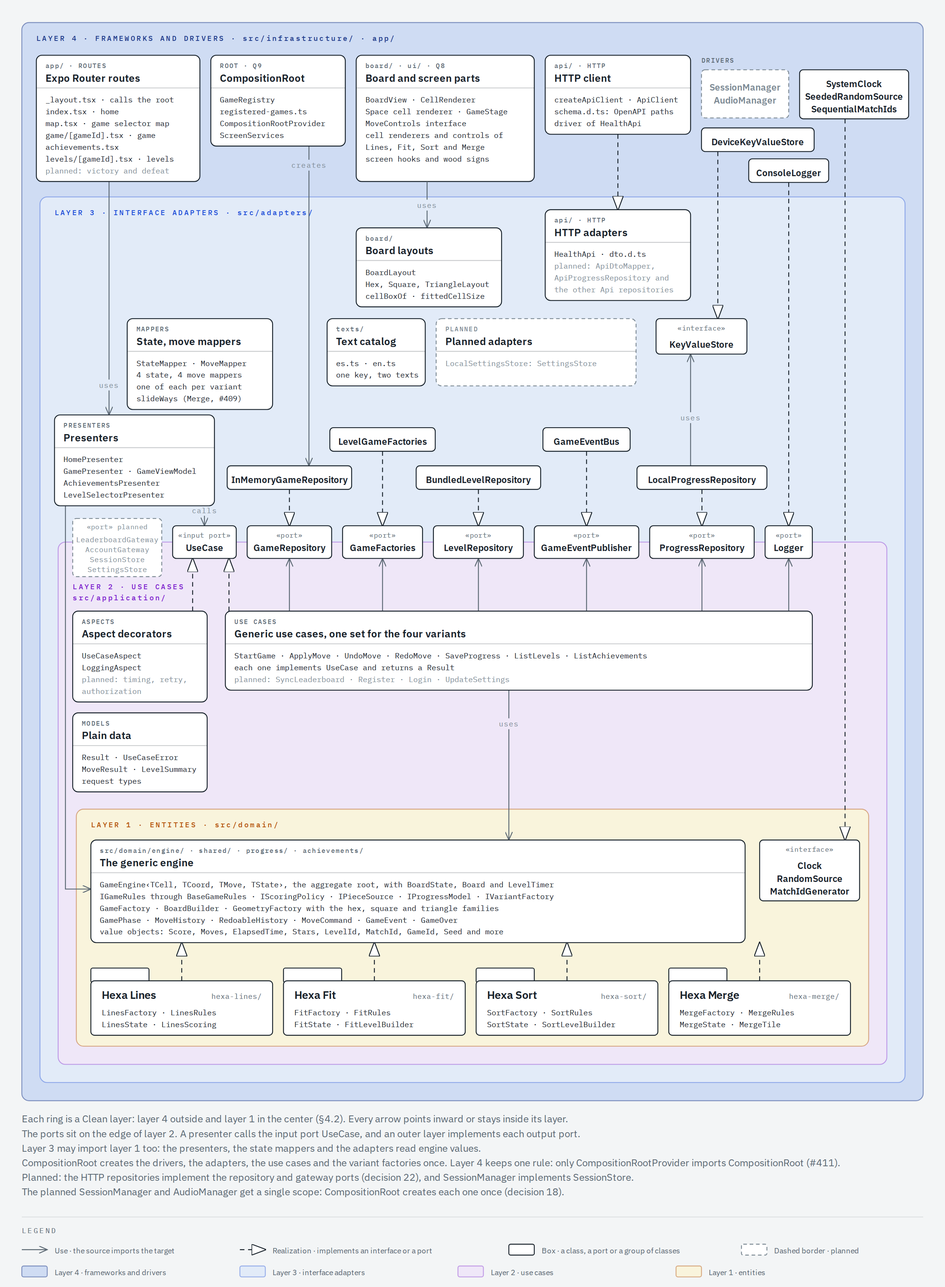
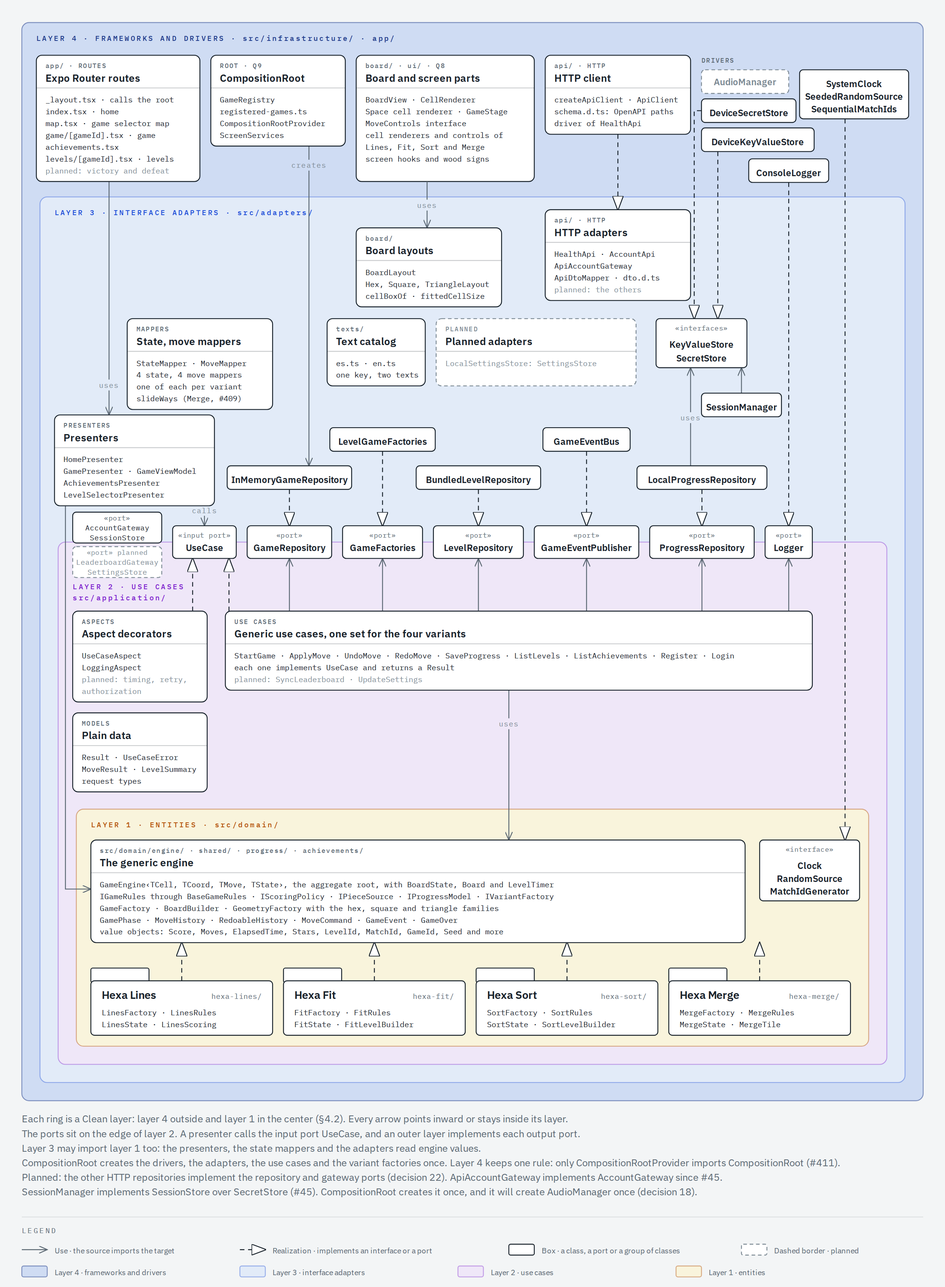
docs(architecture): record the account flow, decision 65 and the views (#45, part 5/5)

diff --git a/docs/architecture/layers/views/layers-1-clean.html b/docs/architecture/layers/views/layers-1-clean.html
@@ -82,11 +82,12 @@
           board components of layer 4 use the board layouts of layer 3. The HTTP adapters of layer 3
           hold HealthApi and the DTO types, and ApiClient of layer 4 implements HealthApi (decision
           22). In layer 4, ConsoleLogger implements Logger, DeviceKeyValueStore implements
-          KeyValueStore, and SystemClock, SeededRandomSource and SequentialMatchIds implement the
-          engine interfaces Clock, RandomSource and MatchIdGenerator. The routes use the presenters,
-          and CompositionRoot creates the adapters. The use cases and the presenters use the generic
-          engine, and the four variants implement its contracts. Every arrow points inward, toward
-          layer 1, or stays inside one layer. A dashed border marks a planned part.
+          KeyValueStore, DeviceSecretStore implements SecretStore, and SystemClock,
+          SeededRandomSource and SequentialMatchIds implement the engine interfaces Clock,
+          RandomSource and MatchIdGenerator. The routes use the presenters, and CompositionRoot
+          creates the adapters. The use cases and the presenters use the generic engine, and the
+          four variants implement its contracts. Every arrow points inward, toward layer 1, or stays
+          inside one layer. A dashed border marks a planned part.
         </desc>
         <defs>
           <marker
@@ -239,6 +240,23 @@
           stroke-dasharray="5,4"
           marker-end="url(#layers-triangle)"
         />
+        <!-- DeviceSecretStore implements SecretStore: realization, from layer 4 into layer 3 (#45) -->
+        <path
+          d="M772 121 L764 121 L764 350"
+          fill="none"
+          stroke="#17212a"
+          stroke-width="1"
+          stroke-dasharray="5,4"
+          marker-end="url(#layers-triangle)"
+        />
+        <!-- SessionManager keeps the session through SecretStore: use, inside layer 3 (#45) -->
+        <path
+          d="M816 432 L816 404"
+          fill="none"
+          stroke="#5b6873"
+          stroke-width="1"
+          marker-end="url(#layers-open)"
+        />
         <!-- ApiClient implements HealthApi and the other transport interfaces of layer 3: realization, from layer 4 into layer 3 (decision 22) -->
         <path
           d="M680 147 L680 230"
@@ -321,7 +339,7 @@
         />
         <!-- LocalProgressRepository keeps its data through KeyValueStore: use, inside layer 3 -->
         <path
-          d="M760 512 L760 389"
+          d="M760 512 L760 404"
           fill="none"
           stroke="#5b6873"
           stroke-width="1"
@@ -916,7 +934,7 @@
           x="772"
           y="76"
           width="96"
-          height="53"
+          height="26"
           rx="4"
           fill="#ffffff"
           stroke="#7d8a94"
@@ -925,18 +943,7 @@
         />
         <text
           x="820.0"
-          y="99"
-          fill="#7d8a94"
-          font-size="10"
-          font-weight="600"
-          font-family="'IBM Plex Sans', sans-serif"
-          text-anchor="middle"
-        >
-          SessionManager
-        </text>
-        <text
-          x="820.0"
-          y="113"
+          y="93"
           fill="#7d8a94"
           font-size="10"
           font-weight="600"
@@ -944,6 +951,28 @@
           text-anchor="middle"
         >
           AudioManager
+        </text>
+        <!-- Component: driver of SecretStore (#45) -->
+        <rect
+          x="772"
+          y="108"
+          width="104"
+          height="26"
+          rx="4"
+          fill="#ffffff"
+          stroke="#17212a"
+          stroke-width="1"
+        />
+        <text
+          x="824.0"
+          y="127"
+          fill="#17212a"
+          font-size="10"
+          font-weight="600"
+          font-family="'IBM Plex Sans', sans-serif"
+          text-anchor="middle"
+        >
+          DeviceSecretStore
         </text>
         <!-- Component: drivers of the engine interfaces -->
         <rect
@@ -1194,25 +1223,25 @@
           font-size="8.5"
           font-family="'IBM Plex Mono', monospace"
         >
-          HealthApi · dto.d.ts
+          HealthApi · AccountApi
         </text>
         <text
           x="610"
           y="295"
-          fill="#7d8a94"
+          fill="#17212a"
           font-size="8.5"
           font-family="'IBM Plex Mono', monospace"
         >
-          planned: ApiDtoMapper,
+          ApiAccountGateway
         </text>
         <text
           x="610"
           y="308"
-          fill="#7d8a94"
+          fill="#17212a"
           font-size="8.5"
           font-family="'IBM Plex Mono', monospace"
         >
-          ApiProgressRepository and
+          ApiDtoMapper · dto.d.ts
         </text>
         <text
           x="610"
@@ -1221,7 +1250,7 @@
           font-size="8.5"
           font-family="'IBM Plex Mono', monospace"
         >
-          the other Api repositories
+          planned: the others
         </text>
         <!-- Component: planned adapters -->
         <rect
@@ -1266,12 +1295,12 @@
         >
           LocalSettingsStore: SettingsStore
         </text>
-        <!-- Interface: KeyValueStore, the driver interface of layer 3 -->
+        <!-- Interfaces: KeyValueStore and SecretStore (#45), the driver interfaces of layer 3 -->
         <rect
           x="722"
           y="350"
           width="100"
-          height="39"
+          height="54"
           rx="4"
           fill="#ffffff"
           stroke="#17212a"
@@ -1286,7 +1315,7 @@
           text-anchor="middle"
           letter-spacing="0.08em"
         >
-          «interface»
+          «interfaces»
         </text>
         <text
           x="772.0"
@@ -1298,6 +1327,39 @@
           text-anchor="middle"
         >
           KeyValueStore
+        </text>
+        <text
+          x="772.0"
+          y="397"
+          fill="#17212a"
+          font-size="10"
+          font-weight="600"
+          font-family="'IBM Plex Sans', sans-serif"
+          text-anchor="middle"
+        >
+          SecretStore
+        </text>
+        <!-- Component: SessionManager, the adapter of the SessionStore port (#45, decision 18) -->
+        <rect
+          x="772"
+          y="432"
+          width="88"
+          height="26"
+          rx="4"
+          fill="#ffffff"
+          stroke="#17212a"
+          stroke-width="1"
+        />
+        <text
+          x="816.0"
+          y="451"
+          fill="#17212a"
+          font-size="10"
+          font-weight="600"
+          font-family="'IBM Plex Sans', sans-serif"
+          text-anchor="middle"
+        >
+          SessionManager
         </text>
         <!-- Component: presenters and view models -->
         <rect
@@ -1480,12 +1542,54 @@
           LocalProgressRepository
         </text>
         <!-- Ports on the edge of layer 2: layer 2 owns each one, and an outer layer implements each output port -->
+        <!-- Port: the output ports of the account (#45) -->
+        <rect
+          x="80"
+          y="563"
+          width="98"
+          height="34"
+          rx="4"
+          fill="#ffffff"
+          stroke="#17212a"
+          stroke-width="1"
+        />
+        <text
+          x="129.0"
+          y="572"
+          fill="#5b6873"
+          font-size="7.5"
+          font-family="'IBM Plex Mono', monospace"
+          text-anchor="middle"
+          letter-spacing="0.08em"
+        >
+          «port»
+        </text>
+        <text
+          x="129.0"
+          y="583"
+          fill="#17212a"
+          font-size="8"
+          font-family="'IBM Plex Mono', monospace"
+          text-anchor="middle"
+        >
+          AccountGateway
+        </text>
+        <text
+          x="129.0"
+          y="594"
+          fill="#17212a"
+          font-size="8"
+          font-family="'IBM Plex Mono', monospace"
+          text-anchor="middle"
+        >
+          SessionStore
+        </text>
         <!-- Port: the planned output ports -->
         <rect
           x="80"
-          y="570"
+          y="601"
           width="98"
-          height="64"
+          height="34"
           rx="4"
           fill="#ffffff"
           stroke="#7d8a94"
@@ -1494,7 +1598,7 @@
         />
         <text
           x="129.0"
-          y="582"
+          y="610"
           fill="#7d8a94"
           font-size="7.5"
           font-family="'IBM Plex Mono', monospace"
@@ -1505,7 +1609,7 @@
         </text>
         <text
           x="129.0"
-          y="596"
+          y="621"
           fill="#7d8a94"
           font-size="8"
           font-family="'IBM Plex Mono', monospace"
@@ -1515,27 +1619,7 @@
         </text>
         <text
           x="129.0"
-          y="607"
-          fill="#7d8a94"
-          font-size="8"
-          font-family="'IBM Plex Mono', monospace"
-          text-anchor="middle"
-        >
-          AccountGateway
-        </text>
-        <text
-          x="129.0"
-          y="618"
-          fill="#7d8a94"
-          font-size="8"
-          font-family="'IBM Plex Mono', monospace"
-          text-anchor="middle"
-        >
-          SessionStore
-        </text>
-        <text
-          x="129.0"
-          y="629"
+          y="632"
           fill="#7d8a94"
           font-size="8"
           font-family="'IBM Plex Mono', monospace"
@@ -1885,6 +1969,7 @@
           font-family="'IBM Plex Mono', monospace"
         >
           StartGame · ApplyMove · UndoMove · RedoMove · SaveProgress · ListLevels · ListAchievements
+          · Register · Login
         </text>
         <text
           x="258"
@@ -1902,7 +1987,7 @@
           font-size="8.5"
           font-family="'IBM Plex Mono', monospace"
         >
-          planned: SyncLeaderboard · Register · Login · UpdateSettings
+          planned: SyncLeaderboard · UpdateSettings
         </text>
         <!-- Component: request and response models -->
         <rect
@@ -2385,8 +2470,8 @@
           font-size="11"
           font-family="'IBM Plex Sans', sans-serif"
         >
-          Planned: the HTTP repositories implement the repository and gateway ports (decision 22),
-          and SessionManager implements SessionStore.
+          Planned: the other HTTP repositories implement the repository and gateway ports (decision
+          22). ApiAccountGateway implements AccountGateway since #45.
         </text>
         <text
           x="24"
@@ -2395,8 +2480,8 @@
           font-size="11"
           font-family="'IBM Plex Sans', sans-serif"
         >
-          The planned SessionManager and AudioManager get a single scope: CompositionRoot creates
-          each one once (decision 18).
+          SessionManager implements SessionStore over SecretStore (#45). CompositionRoot creates it
+          once, and it will create AudioManager once (decision 18).
         </text>
         <!-- Legend -->
         <line

diff --git a/src/infrastructure/README.md b/src/infrastructure/README.md
@@ -4,5 +4,9 @@ Frameworks and drivers (storage, HTTP client, system clock, seeded random source
 
 `device-key-value-store.ts` holds `DeviceKeyValueStore`, the local storage driver (S3-01 in #151, issue #155). It implements `KeyValueStore` of `src/adapters/` with `@react-native-async-storage/async-storage`, so a value survives a restart of the app. `CompositionRootProvider` builds it and gives it to the root, which builds `LocalProgressRepository` over it for the achievements screen (#188). `jest.setup.js` gives every test of the `app` project of Jest the official mock of the package.
 
+`device-secret-store.ts` holds `DeviceSecretStore`, the secure storage driver (#45). It implements `SecretStore` of `src/adapters/` with `expo-secure-store`, which keeps each value in the Keychain of iOS or encrypted with the Keystore of Android. `CompositionRootProvider` builds it and gives it to the root, which builds `SessionManager` over it. The web build of the team has no native secure storage, so there each call rejects.
+
+`api/` holds the HTTP client of hexablock-api (decision 22 of the class diagram). `createApiClient(baseUrl)` of `client.ts` implements `HealthApi` and `AccountApi` with `openapi-fetch` and the generated `schema.d.ts`. A call of `AccountApi` that the backend does not answer with success rejects with an `ApiFailure` with the status, and a call with no answer with an `ApiFailure` with no status (#45). `apiBaseUrl()` of `api-url.ts` gives the address of the backend: the build variable `EXPO_PUBLIC_API_URL`, or `http://localhost:3000`. With the client and the secure storage of its drivers, the root builds `ApiAccountGateway`, `SessionManager`, `Register` and `Login`, and `accountPresenter()` gives the presenter of the account screen. A root with no client or no secure storage throws a `RangeError` from `accountPresenter()`. `ui/use-account.ts` holds `useAccount()`, which keeps that presenter for the life of the account screen of `app/account.tsx`.
+
 `board/` holds the React Native board components (S3-07 in #151, Q8, issue #165). `BoardView` draws the pairs of a coordinate and a cell view of `GameViewModel` on any figure, with the accessible name of the board. `BoardView` reads the screen layout of the figure, `BoardLayout` of `src/adapters/board/` (#393). `CellRenderer` is the interface of the cell renderer of a variant, and `SpaceCellRenderer` tells a free space from an occupied one (#170), and the cell renderer of each variant draws a free space with it. `FitCellRenderer` draws a space of Hexa Fit: a socket, or a stone in the color of its piece (#175). `MergeCellRenderer` draws a Merge tile as a stone in the tone of its value with its number (#177). `BoardView` hands a press on a space to the move controls of the game (#175).
 `ui/` holds the parts that the screens share (#169): the design tokens of the team prototype in `theme.ts`, the scene of sky and grass, the hex stone, the wood sign and the lip button, `useHomePresenter()`, which asks the root for `HomePresenter`, and `useSavedProgresses()`, which loads the saved progress of each registered game of a figure through the one `loadProgress()` of the root and gives the pairs to `useHomePresenter()`, so the map shows the record of each game that keeps a high score (#181). `GameStage` is the view of the game screen: it keeps `GamePresenter`, starts the game and shows the board, the score and the outcome. `useGameSession()` keeps the session of one game that the root builds: its presenter over the use cases of the game and its screen parts (#170, #411). `GamePresenter` calls `StartGame`, `ApplyMove`, `UndoMove` and `RedoMove` through `UseCase` (#178). `MoveControls` is the strategy of the move controls of one game: the stage gives it the board and `play()`, which calls `GamePresenter.onMove()`. Since #405 the controls send a plain intent, such as the text id of a piece and a rotation step as a number, and the `MoveMapper` of the game in `src/adapters/` builds the domain move. So no file of `ui/` imports a class of `src/domain/variants/` (rule `ui-no-variants` of `.dependency-cruiser.cjs`). Each variant has its own controls (#174 to #177): `FitControls` play Hexa Fit with the tray, the rotate button and a press on a space (#175). `MergeControls` play Hexa Merge with one slide button for each way of the figure, and each button sends the compass name of its way, and with the prompt that offers to continue when a merge makes the target tile (#177). Since #292 a swipe anywhere on the board plays the way nearest to its angle, and a swipe shorter than 24 px plays nothing. On the web the arrow keys and the keys Q, E, Z and C play the way nearest to the angle of the key: a repeated key plays once, and a key with Ctrl, Meta or Alt plays nothing. `slide-input.ts` holds `swipedWay()` and `useSlideKeys()`, and only this layer reads the platform. The swipe area holds the board only, so a press on a slide button or on the undo button stays a press, and the ring of buttons stays for the screen reader. `app/_layout.tsx` wraps the app in `GestureHandlerRootView`, which the gesture needs. `useAchievements()` keeps the `AchievementsPresenter` that the root builds and gives the view model of the achievements screen (#188). `useLevelSelector(gameId, figure)` keeps the `LevelSelectorPresenter` that the root builds over `listLevels()` and gives the view model of the level selector, and `useGameLevels(figure)` tells the map which games have levels (#173). `GameStage` takes the optional `LevelId` of the game route and starts the game at that level. `result-screens.tsx` holds `VictoryScreen` and `DefeatScreen` (#180, APP-FR-07): the game route opens one of them as a modal over the stage when the `ResultPresenter` of the session shows a result, and `useResult()` keeps its view model. The victory screen offers the next level or a new game, the defeat screen offers a retry, and both go back to the map. Since #179 they also show an undo button below the slide buttons, which takes back the last slide.

diff --git a/src/adapters/README.md b/src/adapters/README.md
@@ -16,7 +16,11 @@ It holds `InMemoryGameRepository`, the adapter of the `GameRepository` port, and
 
 `key-value-store.ts` holds `KeyValueStore`, the driver interface of the local storage (issue #155). It keeps one text value for each text key. The local repositories of this layer use it, and `DeviceKeyValueStore` in `src/infrastructure/` implements it, so no adapter imports a storage package. `InMemoryKeyValueStore` in `test/support/adapters/` is its test fake, for the integration tests of APP-NFR-15.
 
-`api/` holds the layer 3 side of the HTTP client (Q7, option A3, classes.md decision 22, #404). `dto.d.ts` holds the DTO schemas of the backend OpenAPI document. `pnpm api:generate` writes it, together with `src/infrastructure/api/schema.d.ts`, which holds the paths and imports these DTO types, and `pnpm api:check` compares both files. Do not edit it by hand (rule R-api-contract). `health-api.ts` holds `HealthApi`, the transport interface of the health resource: one interface per resource of the backend, whose methods take and give DTO types and never a type of the HTTP library. It is not a port, because layer 2 never sees it. `ApiClient` of `src/infrastructure/api/client.ts` implements it, so no adapter imports `openapi-fetch`. The planned HTTP repositories `ApiProgressRepository`, `ApiLevelRepository`, `ApiLeaderboardGateway` and `ApiAccountGateway` and their mapper `ApiDtoMapper` live in this folder too: #45, #46, #47 and #48 build them over the transport interfaces.
+`secret-store.ts` holds `SecretStore`, the driver interface of the secure storage of the device (#45). It keeps one secret text value for each key, and a key holds only letters, digits, `.`, `-` and `_`. `DeviceSecretStore` in `src/infrastructure/` implements it, and `InMemorySecretStore` in `test/support/adapters/` is its test fake. Both run the contract suite in `test/support/contracts/secret-store-contract.ts`. `SessionManager` implements the `SessionStore` port over it (decision 18 of the class diagram): it keeps the session as one JSON text with a `version` field under the key `session`, and a kept session that it cannot read throws. So the token never goes to the plain storage of the progress.
+
+`AccountPresenter` is the MVP presenter of the account screen (#45, APP-FR-12). It calls `Register` and `Login` through the `UseCase` port, shows a busy text while a request runs, then the signed-in text with the username of the form, or the text of the failure. Its table of failure texts is a `Record<FailureCode, TextKey>`: `username-taken`, `wrong-credentials`, `invalid-credentials` and `backend-unreachable` have their own texts, and every other code names `account.error`. It reads no field of the `Session`. The texts of the account screen live under `account.<part>` in the catalog.
+
+`api/` holds the layer 3 side of the HTTP client (Q7, option A3, classes.md decision 22, #404). `dto.d.ts` holds the DTO schemas of the backend OpenAPI document. `pnpm api:generate` writes it, together with `src/infrastructure/api/schema.d.ts`, which holds the paths and imports these DTO types, and `pnpm api:check` compares both files. Do not edit it by hand (rule R-api-contract). `health-api.ts` holds `HealthApi`, the transport interface of the health resource: one interface per resource of the backend, whose methods take and give DTO types and never a type of the HTTP library. It is not a port, because layer 2 never sees it. `ApiClient` of `src/infrastructure/api/client.ts` implements it, so no adapter imports `openapi-fetch`. `account-api.ts` holds `AccountApi`, the transport interface of the auth resource (#45): `signUp(body)`, `signIn(body)` and `currentUser(token)`. A call that fails rejects with `ApiFailure` of `api-failure.ts`, which keeps the HTTP status, or no status when no answer arrived. `ApiAccountGateway` implements the `AccountGateway` port over it: a sign-in sends the credentials, then asks `GET /v1/auth/me` for the user id with the token, and a sign-up creates the account and then signs it in. It turns 409 and 400 of the sign-up, 401 of the sign-in and a call with no answer into an `AccountFailure` with its code. `ApiDtoMapper` builds the body and the `Session` (decision 65 of the class diagram). The planned HTTP repositories `ApiProgressRepository`, `ApiLevelRepository` and `ApiLeaderboardGateway` live in this folder too: #46, #47 and #48 build them over their transport interfaces and add their mappings to `ApiDtoMapper`.
 
 `LocalProgressRepository` is the adapter of the `ProgressRepository` port over `KeyValueStore` (#164, decision 57 of the class diagram). It keeps the `GameProgress` of each game as one JSON text of plain numbers and texts under the key `progress:<game id>`, with a `version` field. It reads each value of the domain with `deliverTo(receiver)` (rule R-no-delivery-call), and it builds a loaded progress again with `GameProgress.start()`, `recordScore()` and `recordLevel()`. A saved progress that it cannot read throws, and it never writes over it. It runs the contract suite of its port in `test/support/contracts/`.
 

diff --git a/src/application/README.md b/src/application/README.md
@@ -15,4 +15,6 @@ The aspects of §3.5 live here too. `UseCaseAspect` is the abstract Decorator of
 
 `ListAchievements` lists the achievements of the player with their status (#188, decision 60 of the class diagram). Its request has no member. It gives one `AchievementSummary` per achievement, in the order of the list that the composition root gives: the id of the achievement and whether it is completed. An `Achievement` has an id and an optional `AchievementGoal`, the Strategy that decides when it is completed: `LevelsWon` counts the won levels of one game, `EveryLevelWon` asks for every level of one game, `BestCountReached` asks for a best count of one game, and `TotalCountReached` for a total of one game (#364). The goals live in the domain since #326 and call no repository. `ListAchievements` loads the levels through `LevelRepository`, the saved progress through `ProgressRepository` and the saved counters through `AchievementCounterRepository` once per game, and passes them to `isReachedBy()` of each goal of that game. A level is won when `LevelStatus.ofEach()` gives it `completed`, the rule of `ListLevels`. An achievement with no goal stays in progress; since #364 each registered achievement has a goal.
 
-`FailureCode` in `result.ts` is the one list of failure codes (#322, decision 62 of the class diagram). A use case builds each error from it, for example `FailureCode.noRunningGame`, and never writes the text of a code: `test/gates/failure-code-gate.test.ts` checks it. A new code goes into this list. The failure codes: `start-failed` (`StartGame`), `no-running-game`, `move-rejected` and `move-failed` (`ApplyMove`), `no-undo`, `nothing-to-undo` and `undo-failed` (`UndoMove`, which also returns `no-running-game`), `nothing-to-redo` and `redo-failed` (`RedoMove`, #178, which also returns `no-running-game`), `save-failed` (`SaveProgress`), `load-failed` (`LoadProgress`, #181), `list-failed` (`ListLevels` and `ListAchievements`), `level-locked` (`StartGame`, #397), and `unexpected-failure` (`UseCaseAspect`). The engine records its events, the events of each move (#361) and the `GameOver` of the last turn, and `ApplyMove` delivers them to the `GameEventPublisher` port after the turn (#233). `ApplyMove` does not know the class of an event. `ApplyMove` answers success with the saved turn when the publisher throws (decision 29). The success carries each failed delivery as a `publish-failed` `UseCaseError` in `MoveResult.failedDeliveries` (#342), and `LoggingAspect` writes them in the one entry of the call.
+`FailureCode` in `result.ts` is the one list of failure codes (#322, decision 62 of the class diagram). A use case builds each error from it, for example `FailureCode.noRunningGame`, and never writes the text of a code: `test/gates/failure-code-gate.test.ts` checks it. A new code goes into this list. The failure codes: `start-failed` (`StartGame`), `no-running-game`, `move-rejected` and `move-failed` (`ApplyMove`), `no-undo`, `nothing-to-undo` and `undo-failed` (`UndoMove`, which also returns `no-running-game`), `nothing-to-redo` and `redo-failed` (`RedoMove`, #178, which also returns `no-running-game`), `save-failed` (`SaveProgress`), `load-failed` (`LoadProgress`, #181), `list-failed` (`ListLevels` and `ListAchievements`), `level-locked` (`StartGame`, #397), `username-taken`, `wrong-credentials`, `invalid-credentials` and `backend-unreachable` (`Register` and `Login`, from an `AccountFailure` of the gateway, #45), `register-failed` (`Register`), `login-failed` (`Login`), and `unexpected-failure` (`UseCaseAspect`). The engine records its events, the events of each move (#361) and the `GameOver` of the last turn, and `ApplyMove` delivers them to the `GameEventPublisher` port after the turn (#233). `ApplyMove` does not know the class of an event. `ApplyMove` answers success with the saved turn when the publisher throws (decision 29). The success carries each failed delivery as a `publish-failed` `UseCaseError` in `MoveResult.failedDeliveries` (#342), and `LoggingAspect` writes them in the one entry of the call.
+
+`Register` and `Login` sign the player up and in (APP-FR-12, #45, decision 65 of the class diagram). Each one implements `UseCase<Credentials, Session>`: `Credentials` holds the username and the password of the form, and `Session` is the value object with the bearer token and the user id of the account. Each one asks its operation of the `AccountGateway` port for the session and writes it through the `SessionStore` port, with the one function `keptSession()` of `account-gateway.ts`. A known failure of the gateway is an `AccountFailure` with its code. Any other failure gives `register-failed` or `login-failed`, and a failure of the gateway writes no session. The sync use cases of #46 read the session through `SessionStore.read()`.
